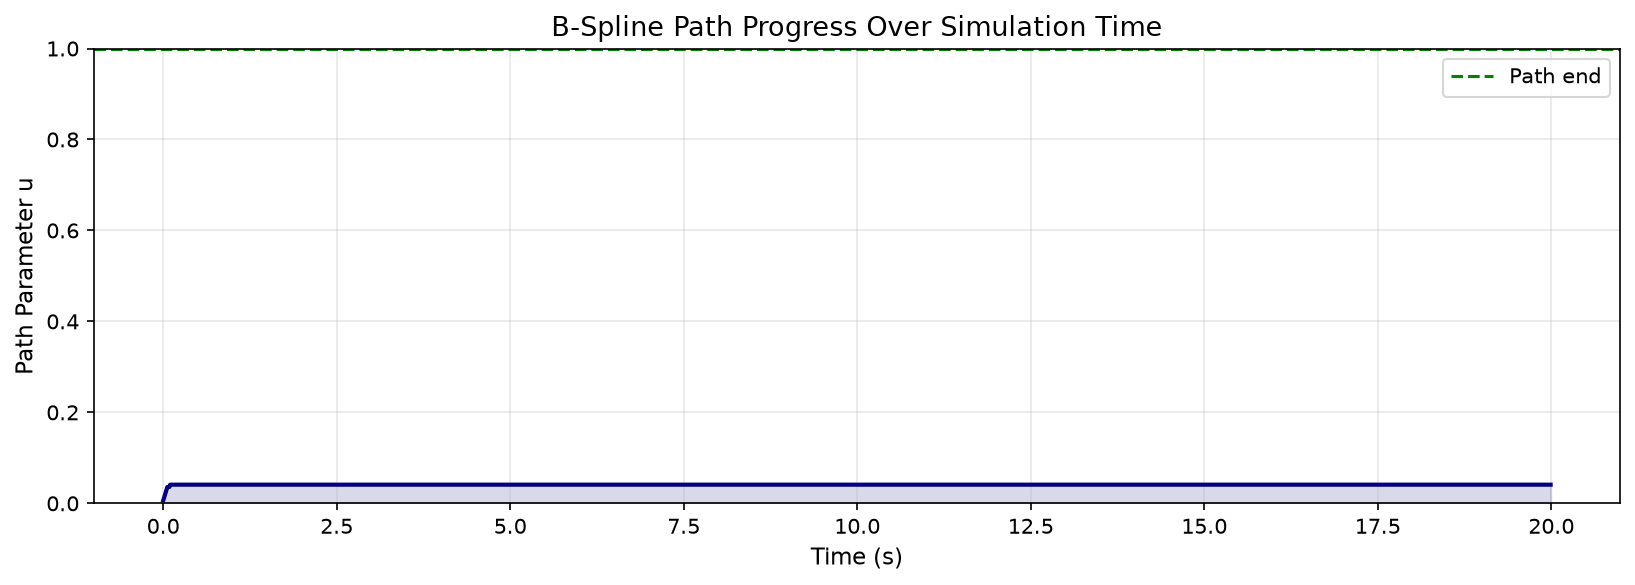
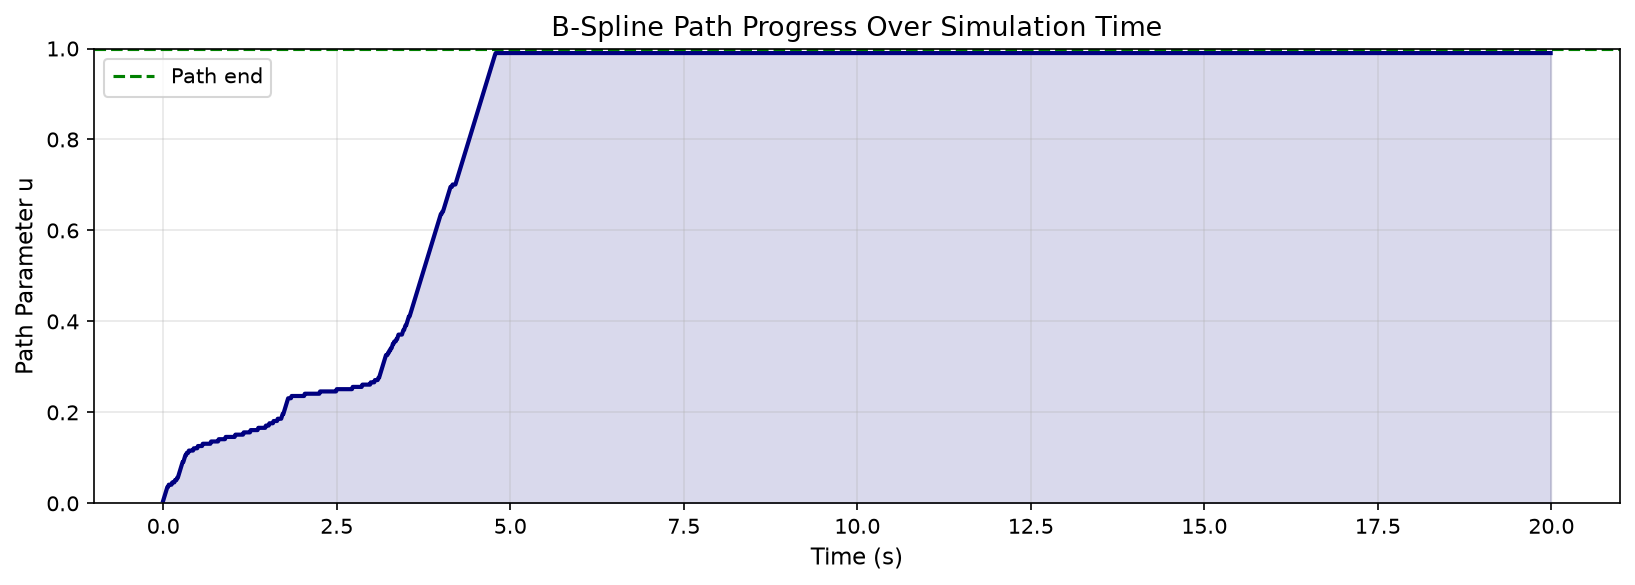
Feat: Tune and Verified Final Results

diff --git a/main.py b/main.py
@@ -69,8 +69,11 @@ sim = MergedSimulation(
     spline_adaptive,
     dt=0.01,
     total_time=20.0,
-    Pq=20.0,
-    Pw=4.0
+    Pq=0.2,   # Tuned down from Paper 2's Pq=20 — at this inertia
+    Pw=0.1    # (Ixx=Iyy=6.5e-4) and dt=0.01, Pq=20/Pw=4 is discrete-time
+              # unstable: torque saturates at +/-4Nm from floating-point
+              # noise alone and never recovers. Pq=0.2/Pw=0.1 is the
+              # largest stable gain pair found by sweeping in 0.05 steps.
 )
 results = sim.run(
     noise_std=0.1,
